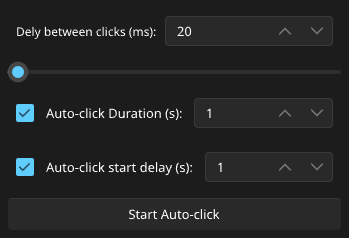
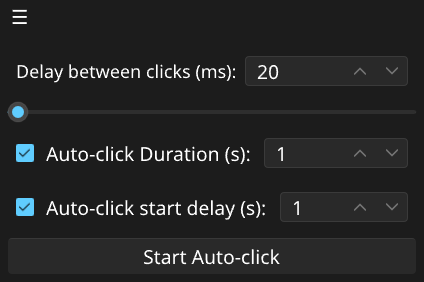
Add a menu with an about option
Show version and about slint when displaying the about popup.
Update screenshots to match updated UI.
Remove about slint from README.md, as it is now in the app.
Increase default font size in the app to be more readable.

diff --git a/src/main.rs b/src/main.rs
@@ -5,6 +5,8 @@ use std::error::Error;
 
 mod autoclicker;
 
+const VERSION: &str = env!("CARGO_PKG_VERSION");
+
 slint::include_modules!();
 
 fn main() -> Result<(), Box<dyn Error>> {
@@ -21,6 +23,7 @@ fn main() -> Result<(), Box<dyn Error>> {
     };
 
     let ui = AppWindow::new()?;
+    ui.set_version(VERSION.into());
 
     ui.on_start_auto_click(
         move |delay: i32,

diff --git a/README.md b/README.md
@@ -50,6 +50,3 @@ TODO?
 ## Credits
 
 Frontend framework: [slint](https://slint.dev/)
-
-![](img/MadeWithSlint-logo-dark.png#gh-dark-mode-only)
-![](img/MadeWithSlint-logo-light.png#gh-light-mode-only)
